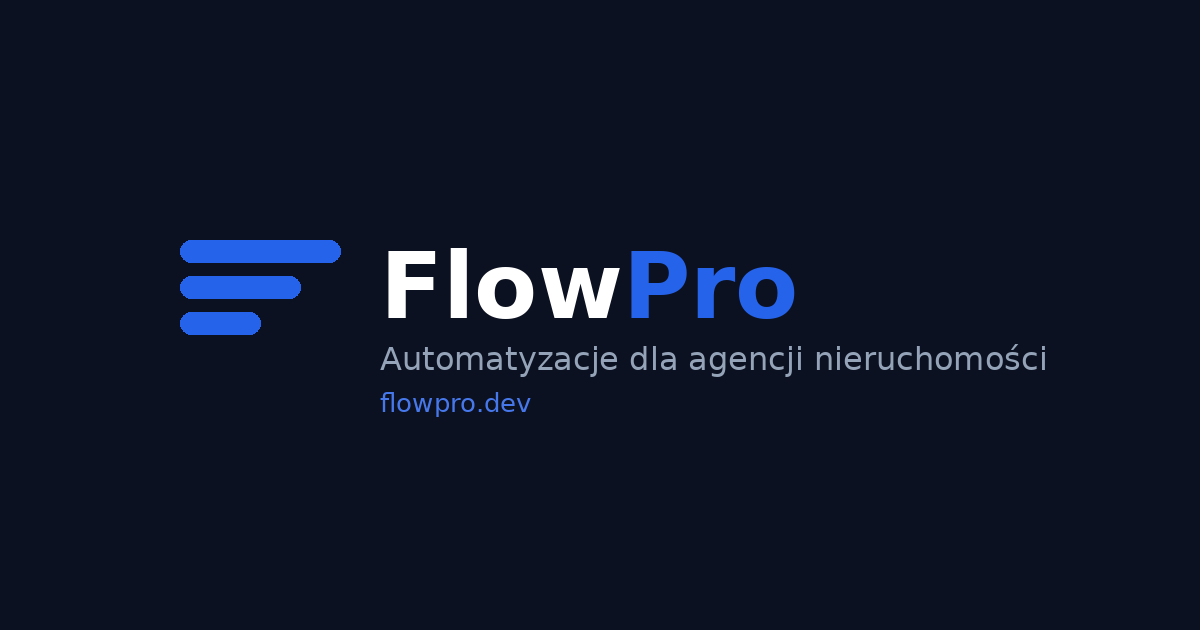
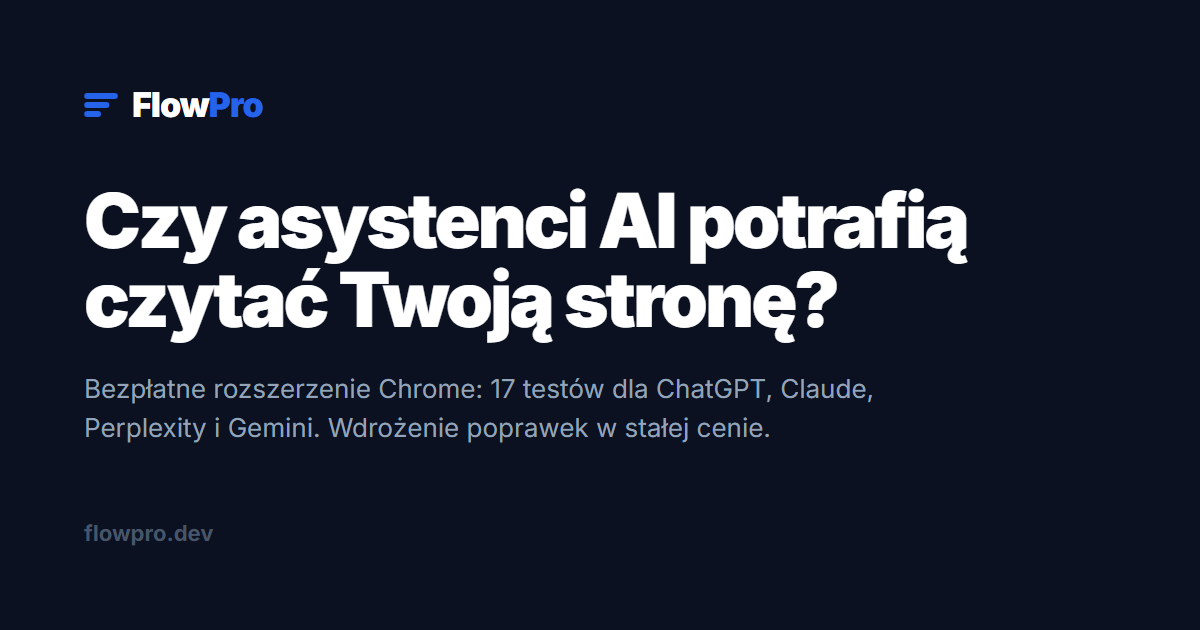
Generate the Open Graph images, and commit the generator
The old card advertised the automation offer, so every share of the new
pages showed the wrong business. Three cards now: English, Polish, and the
extension. Plain text on the navy brand colour, Inter, tokens copied from
the site.

tools/og/build.mjs renders them with headless Chrome and no dependencies,
so the next wording change is one edit and one command rather than a
design round trip. The original automation artwork is kept under
og-image-automatyzacja.png for the legacy page.

Changed region(s): [[0.0617, 0.3016, 0.8633, 0.6937], [0.0617, 0.8143, 0.185, 0.8746], [0.0617, 0.1508, 0.2158, 0.2111]]

diff --git a/tools/og/template.html b/tools/og/template.html
@@ -1,0 +1,38 @@
+<!DOCTYPE html>
+<html lang="en">
+<head>
+<meta charset="UTF-8" />
+<link rel="preconnect" href="https://fonts.googleapis.com" />
+<link href="https://fonts.googleapis.com/css2?family=Inter:wght@400;700;900&display=swap" rel="stylesheet" />
+<style>
+  /* Tokens copied from the site; do not diverge from them. */
+  :root { --blue: #2563EB; --navy: #0B1120; --muted: #94A3B8; }
+  *, *::before, *::after { box-sizing: border-box; margin: 0; padding: 0; }
+  html, body { width: 1200px; height: 630px; }
+  body {
+    font-family: 'Inter', -apple-system, 'Segoe UI', sans-serif;
+    background: var(--navy);
+    padding: 84px;
+    display: flex;
+    flex-direction: column;
+    justify-content: space-between;
+  }
+  .logo { display: flex; align-items: center; gap: 14px; color: #fff; font-size: 34px; font-weight: 900; letter-spacing: -.03em; }
+  .logo em { color: var(--blue); font-style: normal; }
+  h1 { margin-top: 56px; color: #fff; font-size: 76px; font-weight: 900; letter-spacing: -.04em; line-height: 1.04; }
+  p { margin-top: 30px; color: var(--muted); font-size: 26px; line-height: 1.5; max-width: 900px; }
+  .foot { color: #475569; font-size: 22px; font-weight: 700; }
+</style>
+</head>
+<body>
+  <div>
+    <div class="logo">
+      <svg xmlns="http://www.w3.org/2000/svg" viewBox="0 0 28 20" width="34" height="24" aria-hidden="true"><rect width="28" height="5" rx="2.5" fill="#2563EB"/><rect y="7.5" width="21" height="5" rx="2.5" fill="#2563EB"/><rect y="15" width="14" height="5" rx="2.5" fill="#2563EB"/></svg>
+      <span>Flow<em>Pro</em></span>
+    </div>
+    <h1 id="headline"></h1>
+    <p id="sub"></p>
+  </div>
+  <div class="foot">flowpro.dev</div>
+</body>
+</html>
